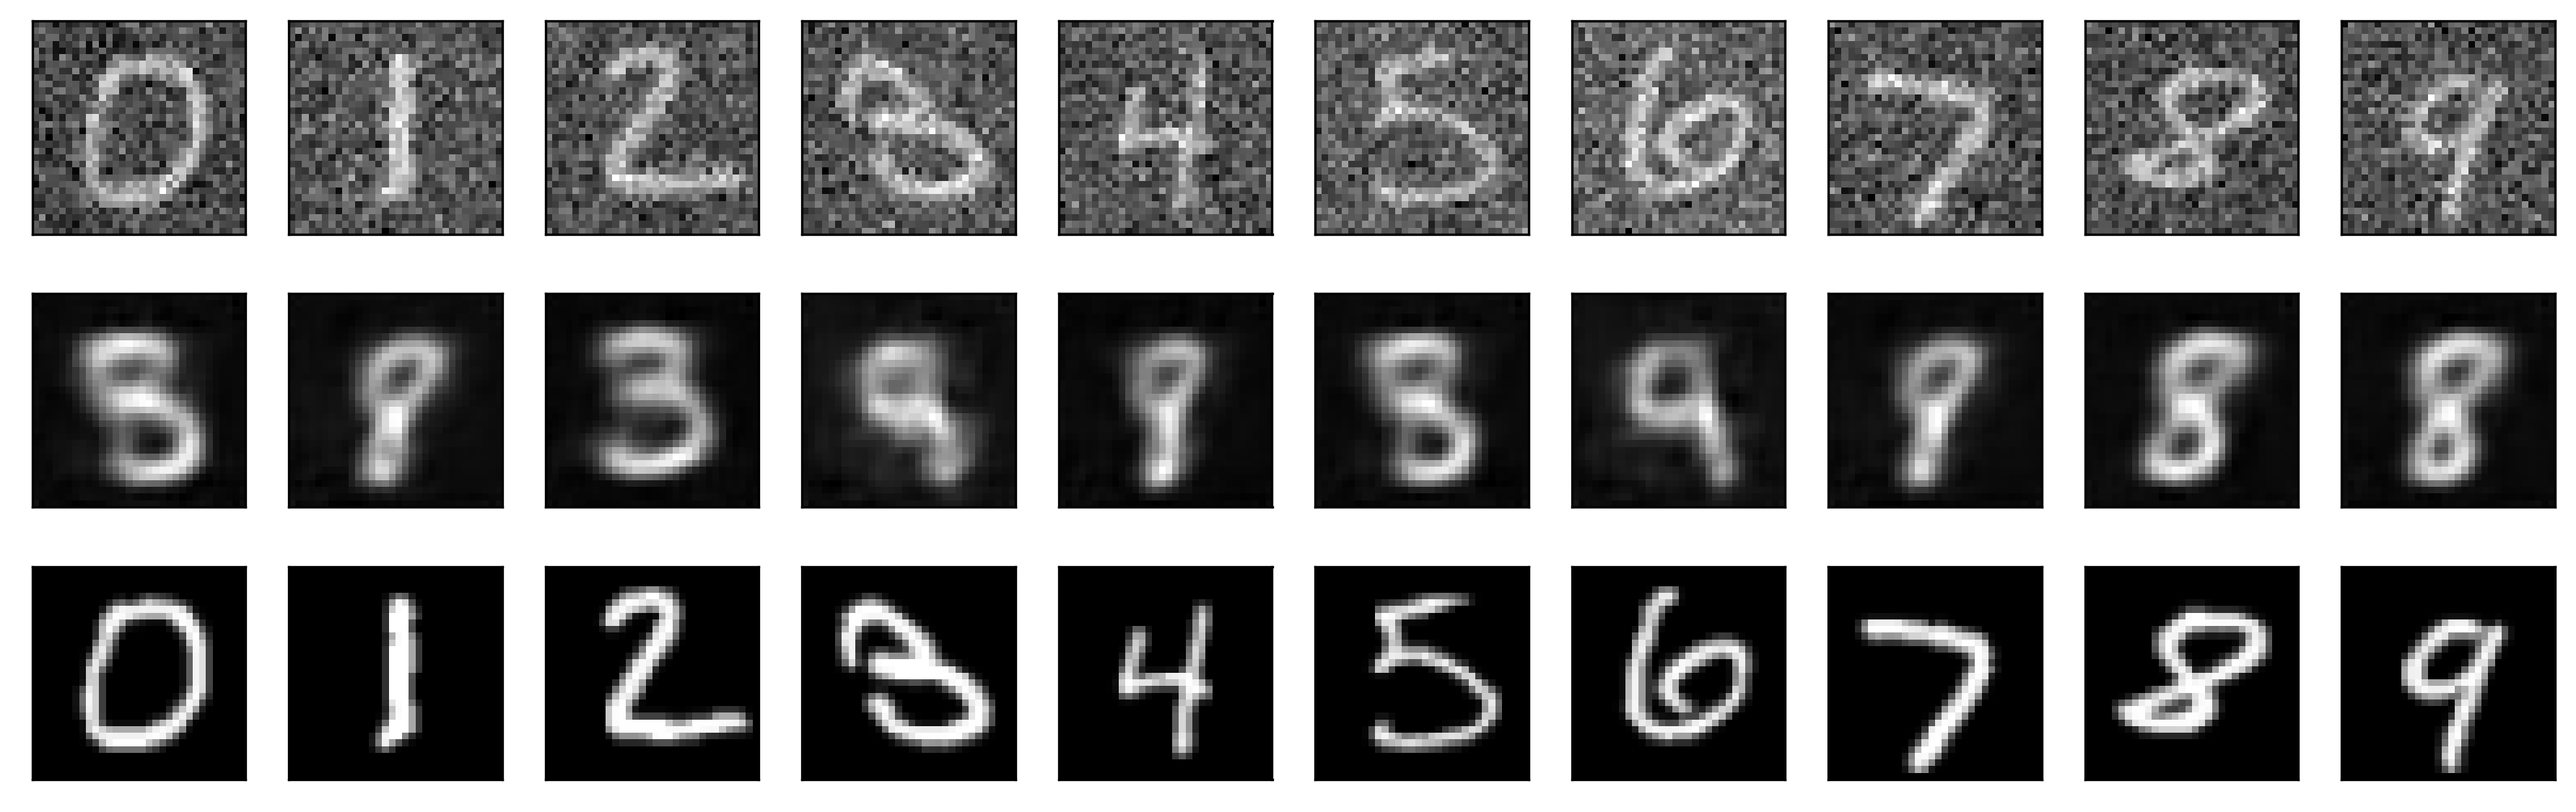
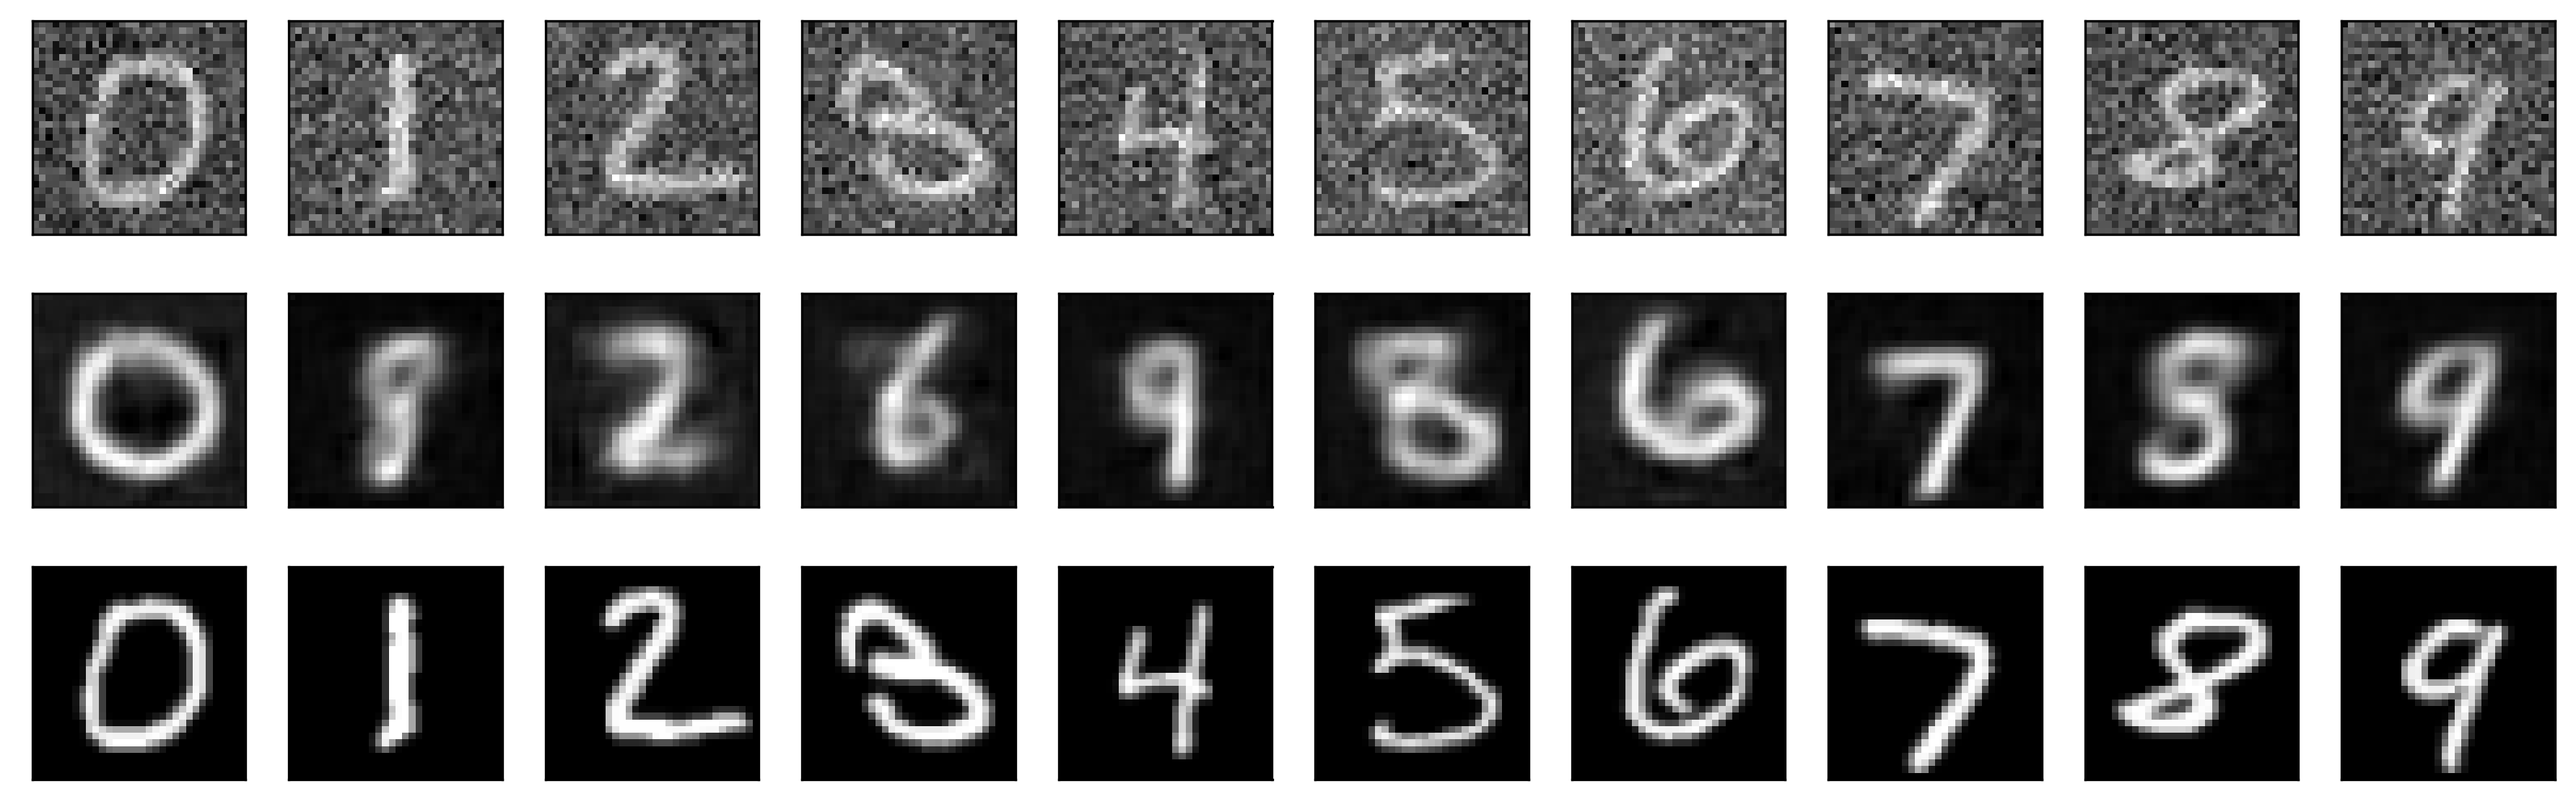
Finish excercise 6, split main files

diff --git a/assignment_3/main_ex_1_to_6.py b/assignment_3/main_ex_1_to_6.py
@@ -201,8 +201,8 @@ if __name__ == "__main__":
     # define parameters
     data_loc = 'data' #change the data location to something that works for you
     batch_size = 64
-    # n_epochs = 50
-    # learning_rate = 3e-4
+    n_epochs = 50
+    learning_rate = 3e-4
 
     # get dataloader
     train_loader, valid_loader, test_loader = MNIST_dataloader.create_dataloaders(data_loc, batch_size)
@@ -211,11 +211,11 @@ if __name__ == "__main__":
     AE = autoencoder_template.AE()
 
     # # load the trained model 
-    AE = train.load_model(AE, "assignment_3/models/excercise1/AE_model_best_50_epochs.pth")
+    # AE = train.load_model(AE, "assignment_3/models/excercise1/AE_model_best_50_epochs.pth")
 
     # create the optimizer
     criterion_ex1 = nn.MSELoss()
-    # optimizer = optim.Adam(AE.parameters(), learning_rate, weight_decay=1e-5)
+    optimizer = optim.Adam(AE.parameters(), learning_rate, weight_decay=1e-5)
 
     # define the device
     device = torch.device("cuda:0" if torch.cuda.is_available() else "cpu") #"cpu"
@@ -225,13 +225,14 @@ if __name__ == "__main__":
     AE.to(device)
 
     # train the model excercise 1
-    # AE, train_losses, valid_losses = train.train_model(AE, train_loader, 
-    #                                                     valid_loader, optimizer, 
-    #                                                     criterion_ex1, n_epochs, device, 
-    #                                                     write_to_file=True)
+    AE, train_losses, valid_losses = train.train_model(AE, train_loader, 
+                                                        valid_loader, optimizer, 
+                                                        criterion_ex1, n_epochs, device, 
+                                                        write_to_file=True,
+                                                        save_path='assignment_3/models/excercise1/AE')
 
     # get latent vectors for excercise 3, use the trained model on the train set
-    # losses_train, output_train, latent_train, label_train = train.test_model(model, criterion_ex1, train_loader, device)
+    # losses_train, output_train, latent_train, label_train = train.test_model(AE, criterion_ex1, train_loader, device)
 
     # # concatenate all train outputs into a tensor
     # output_tensor_train = torch.cat(output_train, dim=0)
@@ -338,9 +339,9 @@ if __name__ == "__main__":
     output_tensor_test = torch.cat(output_test, dim=0)
     label_tensor_test = torch.cat(label_test, dim=0)
 
-    plt.figure(figsize=(12,6))
-    plt.imshow(output_tensor_test[0, 0, :, :], cmap='gray')
-    plt.show()
+    # plt.figure(figsize=(12,6))
+    # plt.imshow(output_tensor_test[0, 0, :, :], cmap='gray')
+    # plt.show()
 
     # plot the first 10 digits of test set (0-9)    
     plot_images_exercise_6(x_noisy_example[:10], output_tensor_test[:10], 

diff --git a/assignment_3/train.py b/assignment_3/train.py
@@ -311,7 +311,7 @@ def calculate_loss_ex4(model, data_loader, criterion, device):
 
 
 # train model function
-def train_model(model, train_loader, valid_loader, optimizer, criterion, n_epochs, device, write_to_file=True, path_to_save_model=None):
+def train_model(model, train_loader, valid_loader, optimizer, criterion, n_epochs, device, write_to_file=True, save_path=None):
     """
     Fit the model on the training data set.
     Arguments
@@ -356,16 +356,17 @@ def train_model(model, train_loader, valid_loader, optimizer, criterion, n_epoch
         valid_loss = 0
 
         # go over all minibatches
-        for batch_idx,(x_clean, x_noisy, label) in enumerate(tqdm(train_loader, position=0, leave=False, ascii=False)):
+        for batch_idx,(x_clean, __, label) in enumerate(tqdm(train_loader, position=0, leave=False, ascii=False)):
             # fill in how to train your network using only the clean images
 
             # move to device
             x_clean = x_clean.to(device)
-            label = label.to(device)
+            # label = label.to(device)
 
             # forward pass
-            output = model(x_clean)
-            loss = criterion(output, label)
+            output, latent = model(x_clean)
+            # loss = criterion(output, label) # for labels
+            loss = criterion(output, x_clean) # for autoencoder
         
             # backward pass, update weights
             optimizer.zero_grad()
@@ -376,7 +377,8 @@ def train_model(model, train_loader, valid_loader, optimizer, criterion, n_epoch
             train_loss += loss.item()
 
         # calculate validation loss
-        valid_loss = calculate_loss_ex4(model, valid_loader, criterion, device)
+        # valid_loss = calculate_loss_ex4(model, valid_loader, criterion, device) # classifier
+        valid_loss = calculate_loss(model, valid_loader, criterion, device) # autoencoder 
 
         # average loss for this epoch = train_loss / n_batches
         train_loss /= len(train_loader)
@@ -387,10 +389,10 @@ def train_model(model, train_loader, valid_loader, optimizer, criterion, n_epoch
 
         # write the model parameters to a file every 5 epochs
         if write_to_file and epoch % 5 == 0:
-            torch.save(model.state_dict(), f"{path_to_save_model}_{epoch}_epochs.pth")
+            torch.save(model.state_dict(), f"{save_path}_{epoch}_epochs.pth")
 
     if write_to_file:
-        torch.save(model.state_dict(), f"{path_to_save_model}_{epoch}_epochs.pth")
+        torch.save(model.state_dict(), f"{save_path}_{epoch}_epochs.pth")
 
     # return the trained model
     return model, train_losses, valid_losses
